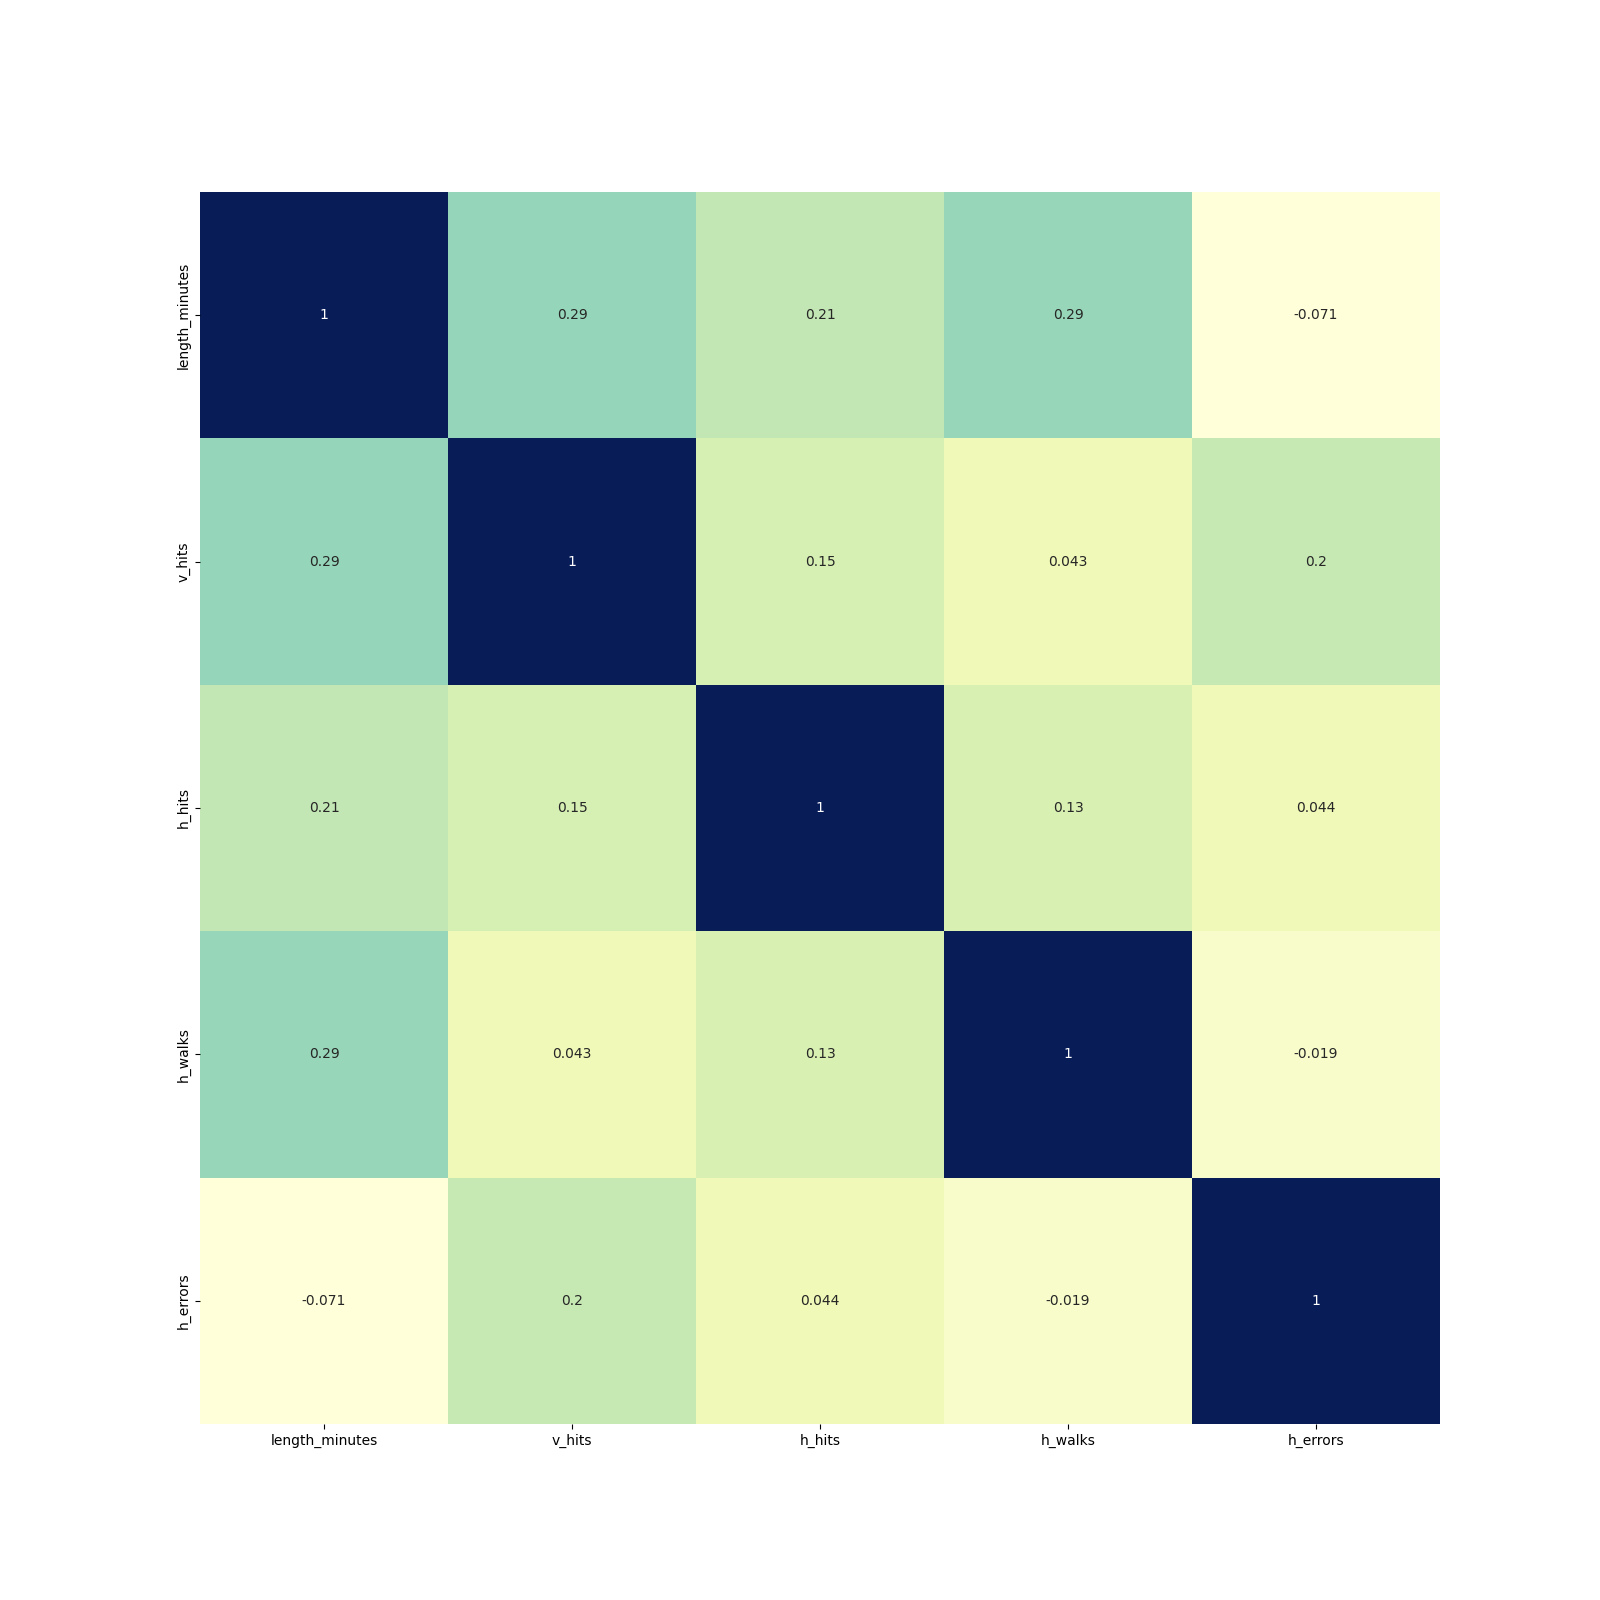
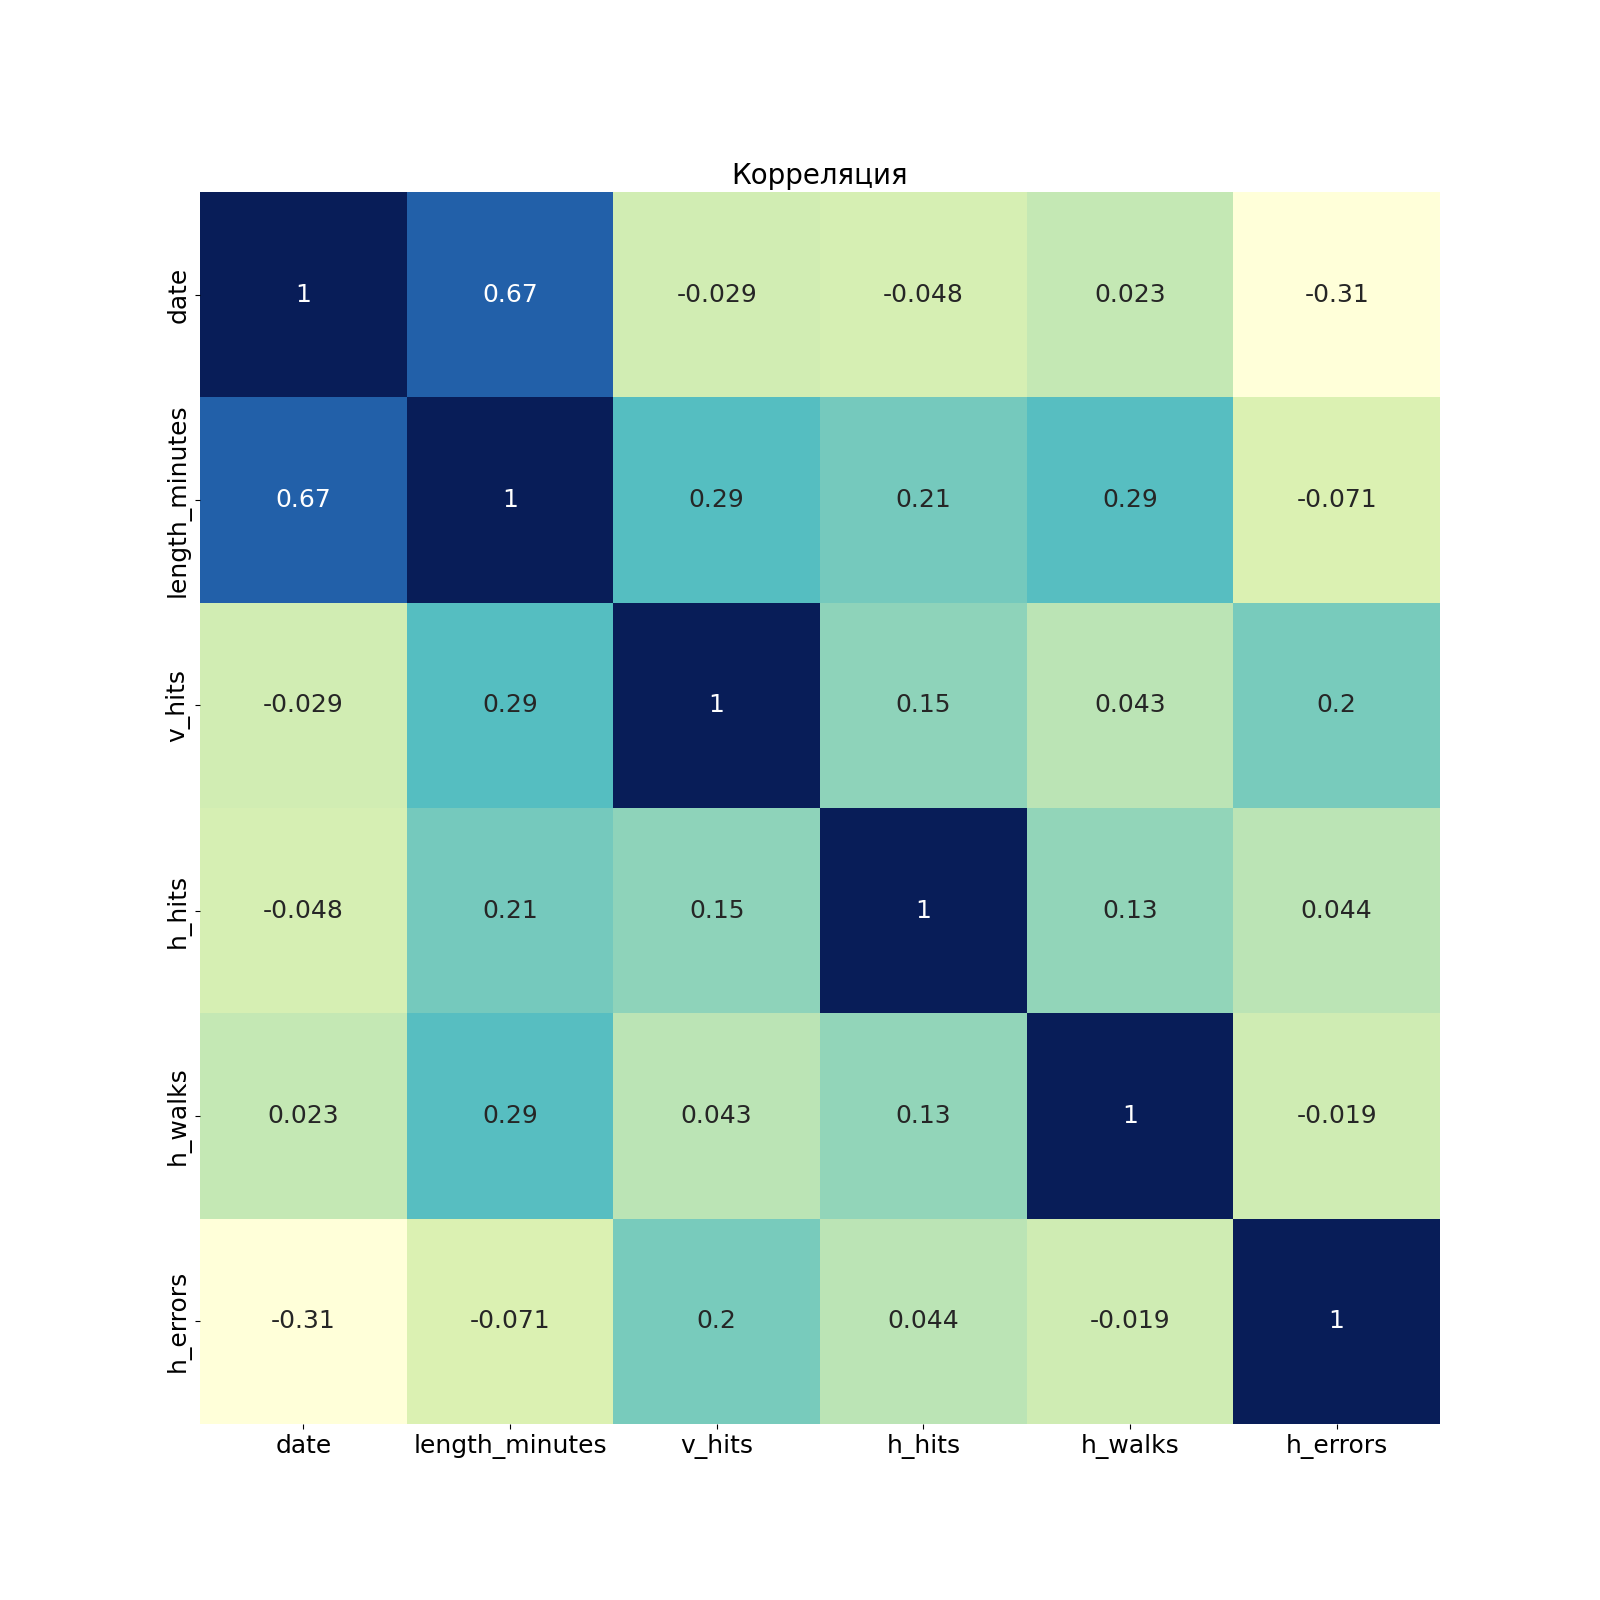
add pr_w6

diff --git a/practical_work6/plot_file1.py b/practical_work6/plot_file1.py
@@ -1,4 +1,5 @@
 import pandas as pd
+import matplotlib
 import matplotlib.pyplot as plt
 import json
 import numpy as np
@@ -20,57 +21,71 @@ def read_dtypes(file_name):
 
 
 # Построение графика количества игр по дням недели
-def first_plot(dataset):
+def first_plot(dataset : pd.DataFrame):
     plt.figure(figsize=(10, 5))
     cats = ['Mon', 'Tue', 'Wed', 'Thu', 'Fri', 'Sat', 'Sun']
     df = dataset.copy()
     df["day_of_week"] = pd.Categorical(dataset['day_of_week'], categories=cats, ordered=True)    
-    plot = dataset.groupby(df["day_of_week"], observed=True)["number_of_game"].mean().plot(title="Среднее количество игр по дням недели")
+    plot = dataset.groupby(df["day_of_week"], observed=True)["number_of_game"].sum().plot(kind="bar", title="Среднее количество игр в день")
     plot.get_figure().savefig(".\\file1_fig\\1.png")
     plt.close()
 
 
-
-
-def main():
-    need_dtypes = read_dtypes("dtypes.json")
-    dataset = pd.read_csv("df.csv",
-                          #usecols=lambda x: x in need_dtypes.keys(),
-                          dtype=need_dtypes)    
-    #dataset.info(memory_usage="deep")
-
-    #print(dataset)
-    
-    
-    
-    
-    # Построение графика Hits
+def second_plot(dataset : pd.DataFrame):
+    #Построение графика Hits
     plt.figure(figsize=(10, 5))
     for col in dataset[[col for col in dataset.columns if "hits" in col]]:
         plot = dataset[col].plot(bins=100, kind='hist', title="Hits", alpha=0.7, legend=True)
     plot.get_figure().savefig(".\\file1_fig\\2.png")
     plt.close()
 
+
+def third_plot(dataset : pd.DataFrame):
     # Количество игр в виде круговой диаграммы
-    plt.figure(figsize=(10, 5))    
-    plot = dataset["number_of_game"].value_counts().plot(kind='pie', title='Количество игр')
+    plt.figure(figsize=(10, 10))
+    explode = (0.1, 0.15, 0.1, 0.15)
+    plot = dataset["number_of_game"].value_counts().plot(kind='pie',  autopct="%1.1f%%", 
+                                                         explode=explode, fontsize=18)
+    plt.ylabel("")
+    plt.title('Количество игр', fontsize=20)
     plot.get_figure().savefig(".\\file1_fig\\3.png")
+    
     plt.close()
 
-    # Корреляция
-    df = dataset.select_dtypes(include=[int, float])
+
+def fourth_plot(dataset : pd.DataFrame):
+    # Корреляция    
+    df = dataset.select_dtypes(include=[np.uint, float])
     plt.figure(figsize=(16,16))
+    matplotlib.rc('font', size=18)
     sns.heatmap(df.corr(), annot=True, cmap="YlGnBu", cbar=False)
+    plt.title("Корреляция", fontsize=20)
     plt.savefig(".\\file1_fig\\4.png")
     plt.close()
+    return df
 
-    # pairplot
+
+def fifth_plot(df : pd.DataFrame):
+    #pairplot
     sns.pairplot(df)
     plt.savefig(".\\file1_fig\\5.png")
 
 
-    plt.show()
+def main():
+    need_dtypes = read_dtypes(".\\out1\\dtypes1.json")
+    dataset = pd.read_csv(".\\out1\\df1.csv",
+                          #usecols=lambda x: x in need_dtypes.keys(),
+                          dtype=need_dtypes)    
+    #dataset.info(memory_usage="deep")
 
+    #print(dataset)
+    
+    first_plot(dataset)
+    second_plot(dataset)
+    third_plot(dataset)
+    df = fourth_plot(dataset)
+    fifth_plot(df)
+    
 
 if __name__ == "__main__":
     main()

diff --git a/README.md b/README.md
@@ -9,6 +9,8 @@
 
 Практическая работа №5
 
+Практическая работа №6
+
 Выполнил: Ахаимов Данила Игоревич
 
 Группа РИМ-130907
